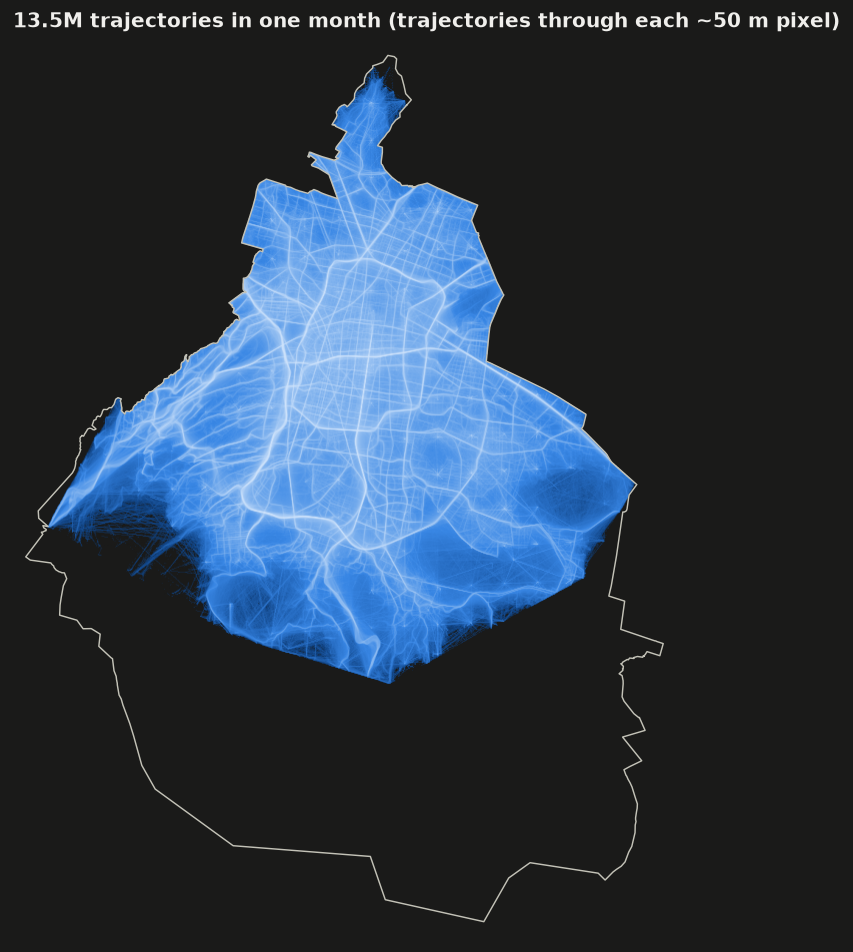
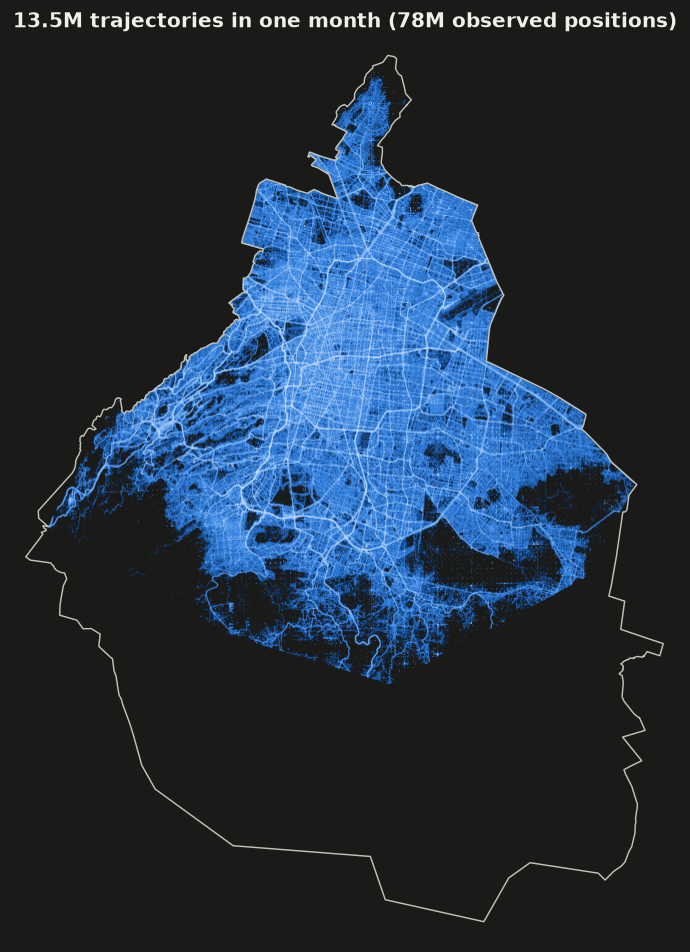
Trajectory maps: density of observed positions instead of chords between pings

diff --git a/examples/mexico_city_figures.py b/examples/mexico_city_figures.py
@@ -80,24 +80,13 @@ MODES = ["walk", "bike", "motorized"]
 MODE_COLS = ["speed_p85_kmh", "speed_max_kmh", "duration", "n_pings", "ping_gap_median_s", "length_m"]
 
 
-def rasterize_lines(coords: pl.Series, bins: int):
-    """Pixel counts of polylines: every segment is sampled about once per pixel, so a pixel
-    counts (roughly) the trajectories passing through it, not the vertices it holds."""
-    x0, x1, y0, y1 = extent()
-    step = (x1 - x0) / bins
-    df = pl.DataFrame({"c": coords}).with_row_index("t").explode("c").drop_nulls()
-    xy = np.asarray(df["c"].to_list())
-    t = df["t"].to_numpy()
-    x, y = merc(xy[:, 0], xy[:, 1])
-    same = t[1:] == t[:-1]
-    ax_, ay_, bx_, by_ = x[:-1][same], y[:-1][same], x[1:][same], y[1:][same]
-    n = np.maximum(1, np.ceil(np.hypot(bx_ - ax_, by_ - ay_) / step).astype(np.int64))
-    seg = np.repeat(np.arange(len(n)), n)
-    k = np.arange(n.sum()) - np.repeat(np.cumsum(n) - n, n)
-    f = k / n[seg]
-    px, py = ax_[seg] + f * (bx_[seg] - ax_[seg]), ay_[seg] + f * (by_[seg] - ay_[seg])
-    h, _, _ = np.histogram2d(py, px, bins=bins, range=[[y0, y1], [x0, x1]])
-    return h
+def vertex_density(coords: pl.Series, bins: int):
+    """Density of observed positions: the vertices of the trajectories (real pings and stay
+    anchors, on actual streets), not the straight chords between sparse pings."""
+    xy = np.asarray(pl.DataFrame({"c": coords}).explode("c").drop_nulls()["c"].to_list())
+    if len(xy) == 0:
+        return np.zeros((bins, bins))
+    return hist2d(xy[:, 1], xy[:, 0], bins)
 
 
 def load(out):
@@ -123,10 +112,10 @@ def load(out):
         n["work"] += w.height
     for f in sorted(glob.glob(f"{out}/trajectories/**/shard=*.parquet", recursive=True)):
         tr = pr.guess_mode(pl.read_parquet(f, columns=["coordinates", "n_points", *MODE_COLS]))
-        flow += rasterize_lines(tr["coordinates"], bins_flow)
+        flow += vertex_density(tr["coordinates"], bins_flow)
         for m in MODES:
             sub_ = tr.filter(pl.col("mode_guess") == m)
-            by_mode[m] += rasterize_lines(sub_["coordinates"], bins_flow)
+            by_mode[m] += vertex_density(sub_["coordinates"], bins_flow)
             n[m] += sub_.height
         n["trajectories"] += tr.height
         n["vertices"] += int(tr["n_points"].sum())
@@ -174,7 +163,7 @@ def fig_flows(flow, n, t, path):
     ax.set_xticks([]), ax.set_yticks([]), ax.grid(False)
     for s in ax.spines.values():
         s.set_visible(False)
-    ax.set_title(f"{n['trajectories'] / 1e6:.1f}M trajectories in one month (trajectories through each ~50 m pixel)",
+    ax.set_title(f"{n['trajectories'] / 1e6:.1f}M trajectories in one month ({n['vertices'] / 1e6:.0f}M observed positions)",
                  color=t["ink"], fontsize=11)
     fig.savefig(path, dpi=130, bbox_inches="tight")
     plt.close(fig)
@@ -278,6 +267,13 @@ def fig_h3(loc, t, path, k=5):
     plt.close(fig)
 
 
+def blend(c1, c2, f):
+    """Mix two hex colors (f = share of c2)."""
+    from matplotlib.colors import to_hex, to_rgb
+
+    return to_hex([(1 - f) * x + f * y for x, y in zip(to_rgb(c1), to_rgb(c2))])
+
+
 def fig_mode_maps(by_mode, n, t, path):
     """City-wide trajectory density for each mode_guess class, each in its own hue."""
     x0, x1, y0, y1 = extent()
@@ -285,7 +281,9 @@ def fig_mode_maps(by_mode, n, t, path):
     fig.subplots_adjust(left=0.005, right=0.995, wspace=0.02, top=0.86, bottom=0.03)
     for ax, m, color in zip(axes, MODES, t["series"]):
         h = by_mode[m]
-        cmap = LinearSegmentedColormap.from_list(m, [t["surface"], color, t["ink"] if t is THEMES["light"] else "#ffffff"])
+        # surface -> the mode's hue -> a deeper (light theme) or paler (dark theme) shade of that hue
+        top = blend(color, t["ink"] if t is THEMES["light"] else "#ffffff", 0.35)
+        cmap = LinearSegmentedColormap.from_list(m, [t["surface"], color, top])
         mm = np.ma.masked_where((h < 1) | ~grid_mask(h.shape), h)
         ax.set_facecolor(t["surface"])
         ax.imshow(mm, extent=(x0, x1, y0, y1), origin="lower", cmap=cmap, interpolation="antialiased",
@@ -296,7 +294,7 @@ def fig_mode_maps(by_mode, n, t, path):
         for s in ax.spines.values():
             s.set_visible(False)
         ax.set_title(f"{m}: {n[m] / 1e6:.2f}M trajectories", color=t["ink"], fontsize=12)
-    fig.suptitle("Where each mode travels (baseline mode_guess; density of trajectories, log scale)",
+    fig.suptitle("Where each mode travels (baseline mode_guess; observed positions, log scale)",
                  x=0.008, y=0.985, ha="left", fontsize=13, fontweight="bold", color=t["ink"])
     fig.savefig(path, dpi=130)
     plt.close(fig)

diff --git a/docs/examples/mexico-city.md b/docs/examples/mexico-city.md
@@ -78,7 +78,8 @@ device in six with a home also has a work place.
 
 ## Trajectories
 
-Every trajectory, rasterized at ~50 m: each pixel counts the trajectories passing through it.
+Every observed position of the 13.5M trajectories (78M points: pings and stay anchors), as a
+density raster. The street network appears from movement alone.
 
 ![Trajectory density in Mexico City](../assets/figures/cdmx_flows_light.png#only-light){ width="640" }
 ![Trajectory density in Mexico City](../assets/figures/cdmx_flows_dark.png#only-dark){ width="640" }
